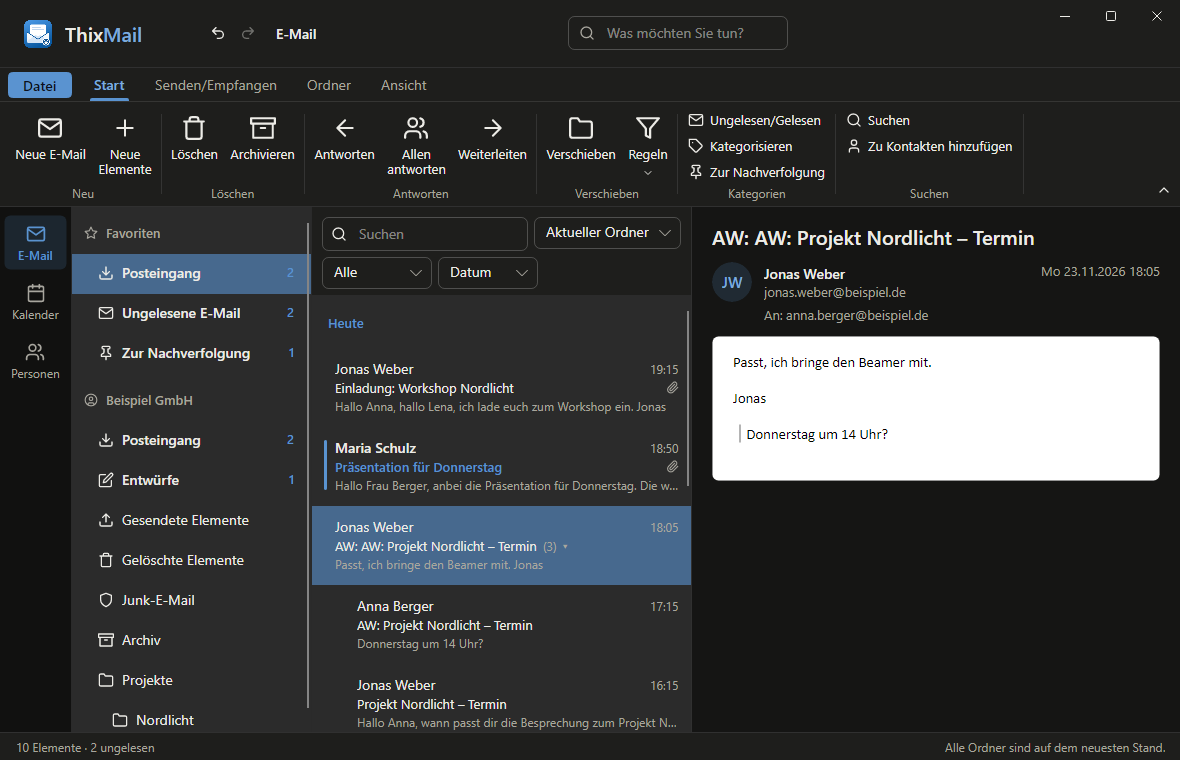
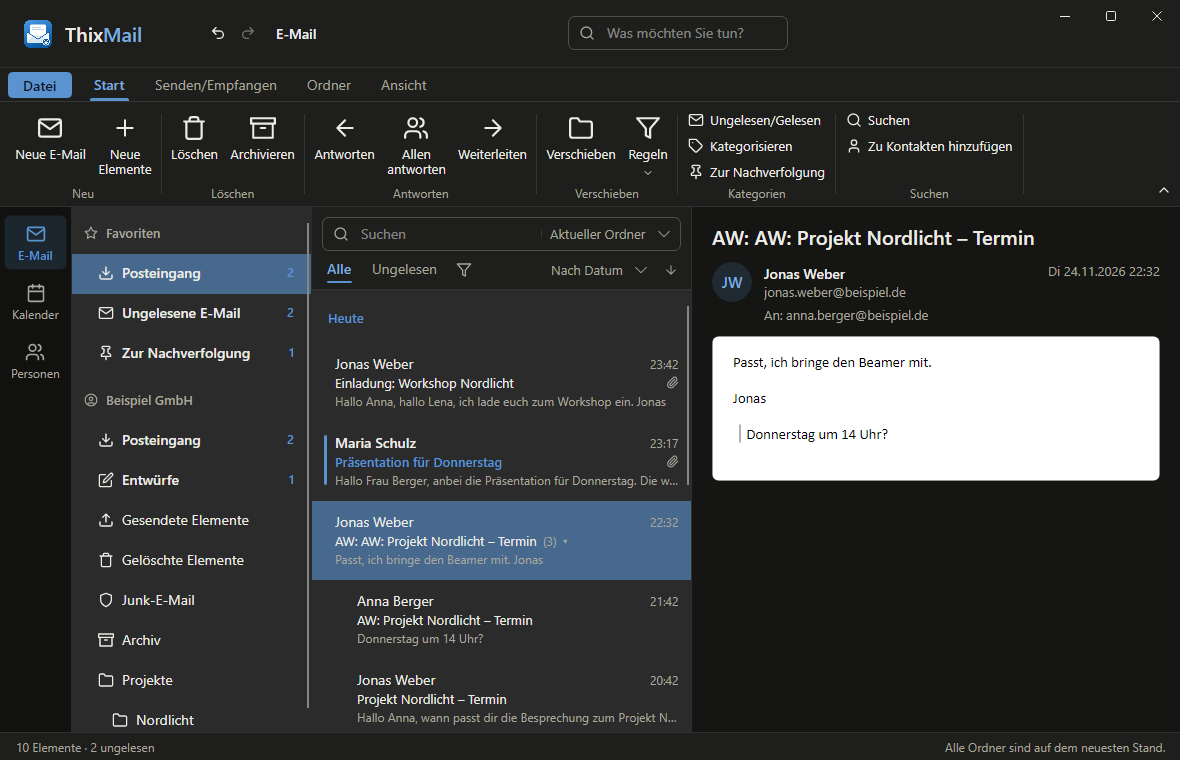
ThixMail: the list's toolbar like Outlook's - one search field with the scope in it and an X that ends the search, under it the views Alle | Ungelesen, the filter menu and "Nach Datum" with an arrow for the direction (each order starts with its own)

diff --git a/src/ThixMail/Editor/MailEditor.cs b/src/ThixMail/Editor/MailEditor.cs
@@ -46,6 +46,9 @@ public sealed partial class MailEditor : OfficeEditor
 
     private static readonly CultureInfo German = CultureInfo.GetCultureInfo("de-DE");
 
+    /// <summary>The filters in the order of <see cref="ListFilter"/>.</summary>
+    private static readonly string[] FilterNames = ["Alle", "Ungelesen", "Gekennzeichnet", "Mit Anlagen"];
+
     private readonly OfficeWindow _window;
     private readonly Grid _root = new();
     private readonly Border _rail = new();
@@ -75,6 +78,7 @@ public sealed partial class MailEditor : OfficeEditor
     private List<long>? _dragIds;
     private ReadingPanePosition _pane;
     private bool _detached;
+    private bool _sortDescending = true;
 
     public MailEditor(OfficeWindow window, MailDocument document)
     {
@@ -103,12 +107,14 @@ public sealed partial class MailEditor : OfficeEditor
         _folderPane.Use(Border.BorderBrushProperty, "Mat.Border");
         _folderPane.BorderThickness = new Thickness(0, 0, 1, 0);
 
-        // the list with its toolbar: search (scope), filter, sort
-        SearchBox = new TextBox { Watermark = "Suchen", InnerLeftContent = new MatIcon { Icon = "search", Margin = new Thickness(8, 0, 0, 0) } };
+        // the list with its toolbar like Outlook's: ONE search field (the scope "Aktueller Ordner ˅" at its right end, ✕ ends the search),
+        // under it the views "Alle | Ungelesen", the filter menu and the order "Nach Datum ˅" with its direction
+        SearchBox = new TextBox { Watermark = "Suchen" }.Themed("MatSearchBox");
         AutomationProperties.SetName(SearchBox, "E-Mail durchsuchen");
         ToolTip.SetTip(SearchBox, Ui.Tooltip("Suchen", OperatingSystem.IsMacOS() ? "Ctrl+Alt+F" : "Ctrl+E"));
         SearchBox.TextChanged += (_, _) =>
         {
+            ClearSearchButton.IsVisible = !string.IsNullOrEmpty(SearchBox.Text);
             _searchDelay.Stop();
             _searchDelay.Start();
         };
@@ -132,21 +138,60 @@ public sealed partial class MailEditor : OfficeEditor
             _searchDelay.Stop();
             QueueRefresh();
         };
-        ScopeChoice = new ComboBox { ItemsSource = new[] { "Aktueller Ordner", "Alle Ordner" }, SelectedIndex = 0, MinWidth = 130 };
-        AutomationProperties.SetName(ScopeChoice, "Suchbereich");
+        ScopeChoice = PlainChoice(["Aktueller Ordner", "Alle Ordner"], "Suchbereich");
         ScopeChoice.SelectionChanged += (_, _) => QueueRefresh();
-        FilterChoice = new ComboBox { ItemsSource = new[] { "Alle", "Ungelesen", "Gekennzeichnet", "Mit Anlagen" }, SelectedIndex = 0, MinWidth = 110 };
+        ClearSearchButton = new Button { Content = new MatIcon { Icon = "x", Size = 14 }, Padding = new Thickness(6), IsVisible = false, VerticalAlignment = VerticalAlignment.Center }.Themed("MatButton.Ghost");
+        AutomationProperties.SetName(ClearSearchButton, "Suche schließen");
+        ToolTip.SetTip(ClearSearchButton, "Suche schließen");
+        ClearSearchButton.Click += (_, _) =>
+        {
+            SearchBox.Text = "";
+            FocusDocument();
+        };
+        var scopeLine = new Border { Width = 1, Margin = new Thickness(4, 7, 2, 7) };
+        scopeLine.Use(Border.BackgroundProperty, "Mat.Border");
+        SearchBox.InnerRightContent = new StackPanel { Orientation = Orientation.Horizontal, Children = { ClearSearchButton, scopeLine, ScopeChoice } };
+
+        // the filter: "Alle" and "Ungelesen" as Outlook's views over the list, every filter in the menu of the funnel
+        FilterChoice = new ComboBox { ItemsSource = FilterNames, SelectedIndex = 0 };
         AutomationProperties.SetName(FilterChoice, "Filter");
-        FilterChoice.SelectionChanged += (_, _) => QueueRefresh();
-        SortChoice = new ComboBox { ItemsSource = new[] { "Datum", "Von", "Betreff", "Größe" }, SelectedIndex = 0, MinWidth = 100 };
-        AutomationProperties.SetName(SortChoice, "Sortieren nach");
-        SortChoice.SelectionChanged += (_, _) => QueueRefresh();
-        var toolbarTop = new DockPanel { Margin = new Thickness(10, 10, 10, 4) };
-        DockPanel.SetDock(ScopeChoice, Dock.Right);
-        ScopeChoice.Margin = new Thickness(6, 0, 0, 0);
-        toolbarTop.Children.Add(ScopeChoice);
-        toolbarTop.Children.Add(SearchBox);
-        var toolbarBottom = new StackPanel { Orientation = Orientation.Horizontal, Spacing = 6, Margin = new Thickness(10, 2, 10, 6), Children = { FilterChoice, SortChoice } };
+        FilterChoice.SelectionChanged += (_, _) =>
+        {
+            ShowFilter();
+            QueueRefresh();
+        };
+        AllViewButton = ViewButton("Alle", ListFilter.All);
+        UnreadViewButton = ViewButton("Ungelesen", ListFilter.Unread);
+        FilterButton = new Button { Content = new MatIcon { Icon = "filter", Size = 16 }, Padding = new Thickness(6), VerticalAlignment = VerticalAlignment.Center }.Themed("MatButton.Ghost");
+        AutomationProperties.SetName(FilterButton, "Filter");
+        ToolTip.SetTip(FilterButton, "Filter: Alle, Ungelesen, Gekennzeichnet, Mit Anlagen");
+        FilterButton.Click += (_, _) => FilterMenu().ShowAt(FilterButton);
+
+        SortChoice = PlainChoice(["Nach Datum", "Nach Absender", "Nach Betreff", "Nach Größe"], "Sortieren nach");
+        SortChoice.SelectionChanged += (_, _) =>
+        {
+            _sortDescending = (ListSort)Math.Max(0, SortChoice.SelectedIndex) is ListSort.Date or ListSort.Size;
+            ShowSortDirection();
+            QueueRefresh();
+        };
+        SortDirectionButton = new Button { Padding = new Thickness(6), VerticalAlignment = VerticalAlignment.Center }.Themed("MatButton.Ghost");
+        SortDirectionButton.Click += (_, _) =>
+        {
+            _sortDescending = !_sortDescending;
+            ShowSortDirection();
+            QueueRefresh();
+        };
+        ShowSortDirection();
+        ShowFilter();
+
+        var toolbarTop = new DockPanel { Margin = new Thickness(10, 10, 10, 2), Children = { SearchBox } };
+        var sortPanel = new StackPanel { Orientation = Orientation.Horizontal, Spacing = 0, Children = { SortChoice, SortDirectionButton } };
+        DockPanel.SetDock(sortPanel, Dock.Right);
+        var toolbarBottom = new DockPanel { Margin = new Thickness(6, 0, 6, 2) };
+        toolbarBottom.Children.Add(sortPanel);
+        toolbarBottom.Children.Add(new StackPanel { Orientation = Orientation.Horizontal, Spacing = 2, Children = { AllViewButton, UnreadViewButton, FilterButton } });
+        var toolbarLine = new Border { Height = 1 };
+        toolbarLine.Use(Border.BackgroundProperty, "Mat.Border");
 
         List = new ListBox { SelectionMode = SelectionMode.Multiple, ItemTemplate = new FuncDataTemplate<ListRow>((_, _) => new MessageRow(this)) };
         AutomationProperties.SetName(List, "Nachrichten");
@@ -173,8 +218,10 @@ public sealed partial class MailEditor : OfficeEditor
         var listDock = new DockPanel();
         DockPanel.SetDock(toolbarTop, Dock.Top);
         DockPanel.SetDock(toolbarBottom, Dock.Top);
+        DockPanel.SetDock(toolbarLine, Dock.Top);
         listDock.Children.Add(toolbarTop);
         listDock.Children.Add(toolbarBottom);
+        listDock.Children.Add(toolbarLine);
         listDock.Children.Add(listArea);
         _listPane.Child = listDock;
         _listPane.Use(Border.BackgroundProperty, "Mat.Surface");
@@ -238,6 +285,23 @@ public sealed partial class MailEditor : OfficeEditor
     public ComboBox FilterChoice { get; }
 
     public ComboBox SortChoice { get; }
+
+    /// <summary>✕ in the search field: ends the search (shown while there is a search).</summary>
+    public Button ClearSearchButton { get; }
+
+    /// <summary>The views over the list above it: "Alle" and "Ungelesen" (Outlook's).</summary>
+    public Button AllViewButton { get; }
+
+    public Button UnreadViewButton { get; }
+
+    /// <summary>The funnel: every filter in a menu (Alle, Ungelesen, Gekennzeichnet, Mit Anlagen).</summary>
+    public Button FilterButton { get; }
+
+    /// <summary>The arrow beside "Nach Datum": newest or oldest first.</summary>
+    public Button SortDirectionButton { get; }
+
+    /// <summary>Newest (largest, Z…A) first.</summary>
+    public bool SortDescending => _sortDescending;
 
     public MessageView Reader { get; }
 
@@ -633,7 +697,7 @@ public sealed partial class MailEditor : OfficeEditor
             var selected = List.SelectedItems?.OfType<ListRow>().Where(r => r.IsMessage).Select(r => r.Id).ToHashSet() ?? [];
             _headers.Clear();
             var sort = (ListSort)Math.Max(0, SortChoice.SelectedIndex);
-            var query = new MessageQuery(ListedFolders(), ListedFilter, (SearchBox.Text ?? "").Trim(), sort, sort is ListSort.Date or ListSort.Size);
+            var query = new MessageQuery(ListedFolders(), ListedFilter, (SearchBox.Text ?? "").Trim(), sort, _sortDescending);
             _entries = Document.Store.List(query);
             KeepReadInUnreadView(query);
             var rows = MessageList.Build(_entries, ShowsConversations, sort == ListSort.Date, _expanded, DateTimeOffset.Now);
@@ -1078,6 +1142,93 @@ public sealed partial class MailEditor : OfficeEditor
 
     private Task<bool> RunAsync(string commandId) =>
         _window.Commands.Find(commandId) is { } command ? OfficeWindow.RunCommandAsync(_window, command) : Task.FromResult(false);
+
+    /// <summary>A borderless choice like Outlook's "Nach Datum ˅" and the scope in the search field: only its words and the arrow.</summary>
+    private static ComboBox PlainChoice(string[] items, string name)
+    {
+        var choice = new ComboBox
+        {
+            ItemsSource = items,
+            SelectedIndex = 0,
+            BorderThickness = new Thickness(0),
+            MinHeight = 0,
+            Padding = new Thickness(6, 2, 2, 2),
+            VerticalAlignment = VerticalAlignment.Center,
+        };
+        choice.Use(ComboBox.FontSizeProperty, "Mat.FontSizeSm");
+        choice.Use(ComboBox.ForegroundProperty, "Mat.TextMuted");
+        AutomationProperties.SetName(choice, name);
+        ToolTip.SetTip(choice, name);
+        return choice;
+    }
+
+    /// <summary>"Alle" or "Ungelesen" above the list: the chosen one in the accent, underlined.</summary>
+    private Button ViewButton(string text, ListFilter filter)
+    {
+        var label = new TextBlock { Text = text };
+        var line = new Border { Height = 2, Margin = new Thickness(0, 3, 0, 0), CornerRadius = new CornerRadius(1) };
+        var button = new Button
+        {
+            Content = new StackPanel { Children = { label, line } },
+            Padding = new Thickness(8, 5, 8, 2),
+            Tag = filter,
+            VerticalAlignment = VerticalAlignment.Center,
+        }.Themed("MatButton.Ghost");
+        AutomationProperties.SetName(button, text);
+        button.Click += (_, _) => FilterChoice.SelectedIndex = (int)filter;
+        return button;
+    }
+
+    /// <summary>The view buttons and the funnel follow the filter (the funnel in the accent while a filter of its menu only is on).</summary>
+    private void ShowFilter()
+    {
+        var filter = (ListFilter)Math.Max(0, FilterChoice.SelectedIndex);
+        foreach (var button in new[] { AllViewButton, UnreadViewButton })
+        {
+            var on = (ListFilter)button.Tag! == filter;
+            var parts = (StackPanel)button.Content!;
+            var label = (TextBlock)parts.Children[0];
+            var line = (Border)parts.Children[1];
+            label.FontWeight = on ? FontWeight.SemiBold : FontWeight.Normal;
+            label.Use(TextBlock.ForegroundProperty, on ? "Mat.AccentText" : "Mat.TextMuted");
+            line.Use(Border.BackgroundProperty, "Mat.Accent");
+            line.Opacity = on ? 1 : 0;
+        }
+
+        var other = filter is ListFilter.Flagged or ListFilter.Attachments;
+        ((MatIcon)FilterButton.Content!).Use(MatIcon.ForegroundProperty, other ? "Mat.AccentText" : "Mat.TextMuted");
+        ToolTip.SetTip(FilterButton, other ? $"Filter: {FilterNames[(int)filter]}" : "Filter: Alle, Ungelesen, Gekennzeichnet, Mit Anlagen");
+    }
+
+    /// <summary>The menu of the funnel: every filter, the one on checked.</summary>
+    private MenuFlyout FilterMenu()
+    {
+        var menu = new MenuFlyout { Placement = PlacementMode.BottomEdgeAlignedLeft };
+        for (var index = 0; index < FilterNames.Length; index++)
+        {
+            var chosen = index;
+            var item = new MenuItem { Header = FilterNames[index], ToggleType = MenuItemToggleType.Radio, IsChecked = FilterChoice.SelectedIndex == index };
+            item.Click += (_, _) => FilterChoice.SelectedIndex = chosen;
+            menu.Items.Add(item);
+        }
+
+        return menu;
+    }
+
+    /// <summary>The arrow beside the order: ↓ newest (largest, Z…A) first, ↑ oldest first.</summary>
+    private void ShowSortDirection()
+    {
+        SortDirectionButton.Content = new MatIcon { Icon = _sortDescending ? "arrow-down" : "arrow-up", Size = 14 };
+        var sort = (ListSort)Math.Max(0, SortChoice.SelectedIndex);
+        var text = sort switch
+        {
+            ListSort.Date => _sortDescending ? "Neueste oben" : "Älteste oben",
+            ListSort.Size => _sortDescending ? "Größte oben" : "Kleinste oben",
+            _ => _sortDescending ? "Z bis A" : "A bis Z",
+        };
+        ToolTip.SetTip(SortDirectionButton, text);
+        AutomationProperties.SetName(SortDirectionButton, $"Reihenfolge: {text}");
+    }
 
     public void FocusSearch()
     {

diff --git a/tests/ThixMail.Tests/MailUiTests.cs b/tests/ThixMail.Tests/MailUiTests.cs
@@ -290,6 +290,49 @@ public sealed class MailUiTests
     }
 
     [AvaloniaFact]
+    public async Task The_list_toolbar_works_like_Outlooks_one_search_field_the_views_and_the_order_with_its_direction()
+    {
+        using var data = new TestData();
+        var window = await data.WindowAsync();
+        var editor = EditorOf(window);
+        var all = editor.Rows.Count(r => r.IsMessage);
+
+        // one search field: the scope sits in it, ✕ only while searching and it ends the search
+        Assert.Equal("Suchen", editor.SearchBox.Watermark);
+        Assert.Equal("Aktueller Ordner", editor.ScopeChoice.SelectedItem);
+        Assert.False(editor.ClearSearchButton.IsVisible);
+        editor.SearchBox.Text = "sommerfest";
+        await UntilAsync(() => editor.Rows.Count(r => r.IsMessage) == 1, "the search result");
+        Assert.True(editor.ClearSearchButton.IsVisible);
+        await ClickAsync(window, editor.ClearSearchButton);
+        await UntilAsync(() => editor.Rows.Count(r => r.IsMessage) == all, "the whole list again");
+        Assert.False(editor.ClearSearchButton.IsVisible);
+
+        // "Ungelesen" over the list, "Alle" back
+        await ClickAsync(window, editor.UnreadViewButton);
+        await UntilAsync(() => editor.Rows.Count(r => r.IsMessage) < all, "only the unread");
+        Assert.Equal(1, editor.FilterChoice.SelectedIndex);
+        await ClickAsync(window, editor.AllViewButton);
+        await UntilAsync(() => editor.Rows.Count(r => r.IsMessage) == all, "every message again");
+
+        // "Nach Datum" newest first; the arrow turns it round
+        Assert.Equal("Nach Datum", editor.SortChoice.SelectedItem);
+        Assert.True(editor.SortDescending);
+        DateTimeOffset First() => editor.HeaderOf(editor.Rows.First(r => r.Kind == RowKind.Message).Id)!.Date;
+        DateTimeOffset Last() => editor.HeaderOf(editor.Rows.Last(r => r.Kind == RowKind.Message).Id)!.Date;
+        Assert.True(First() >= Last());
+        await ClickAsync(window, editor.SortDirectionButton);
+        Assert.False(editor.SortDescending);
+        await UntilAsync(() => First() < Last(), "the oldest first");
+
+        // another order starts with its own direction: A to Z for the sender
+        editor.SortChoice.SelectedIndex = 1;
+        Assert.False(editor.SortDescending);
+        editor.SortChoice.SelectedIndex = 0;
+        Assert.True(editor.SortDescending);
+    }
+
+    [AvaloniaFact]
     public async Task A_conversation_opens_with_the_right_arrow_and_shows_its_messages()
     {
         using var data = new TestData();

diff --git a/CLAUDE.md b/CLAUDE.md
@@ -202,7 +202,10 @@ src/ThixMail.Core          (no UI) ThixMailApp.Definition (Kind Workspace, .eml,
                            contacts – ThixContacts' ContactsSession – and calendar – CalendarBook – in stores of this app, PimSync with ?app=contacts and
                            ?app=calendar while signed in, ReconnectAsync), MailInvitations (View of a text/calendar part with conflicts, Answer: calendar +
                            REPLY through the outbox, RemoveCancelled, SendMeeting/DeleteAppointment: REQUEST/CANCEL); Draft.Calendar → text/calendar part
-src/ThixMail               App (workspace), Editor/ (MailEditor: navigation rail | folder pane | list | MessageView, MailEditor.Views: MailArea Mail/Calendar/
+src/ThixMail               App (workspace), Editor/ (MailEditor: navigation rail | folder pane | list | MessageView; the list's toolbar
+                           like Outlook's: ONE search field (MatSearchBox, scope ComboBox + ✕ ClearSearchButton inside it), under it the views
+                           AllViewButton/UnreadViewButton, FilterButton (menu of every filter; FilterChoice keeps the state, not shown) and the plain
+                           SortChoice "Nach Datum" with SortDirectionButton (each order starts with its own direction); MailEditor.Views: MailArea Mail/Calendar/
                            People, ShowView, the shared CalendarView/PeopleView or the sign-in, contextual ribbon contexts "calendar"/"people", the invitation
                            bar's answers; MailRows: FolderRow, MessageRow, CategoryTokens; MessageView: header, "Bilder laden", the invitation bar,
                            attachments, body = read-only DocumentSurface; MessageWindow; MailCommands + MailCommandIds (Outlook's keys; act only in the view

diff --git a/README.md b/README.md
@@ -330,8 +330,9 @@ dem Mailserver und – zum Lesen ohne Verbindung – auf diesem Computer, **nie 
   ein, ThixMail bewahrt nur die Anmeldung auf und erneuert sie selbst; endet sie, bittet das Konto um eine neue Anmeldung, ohne Mails zu verlieren.
   Solange ThixMail bei einem Anbieter noch nicht registriert ist, sagt die Kontoseite das ehrlich (Gmail geht bis dahin mit App-Passwort).
 - **Hauptfenster** wie im deutschen Outlook: Ordnerbereich (Favoriten mit „Alle Posteingänge“, je Konto Posteingang, Entwürfe, Gesendete Elemente,
-  Gelöschte Elemente, Junk-E-Mail, Archiv und eigene Ordner mit ungelesenen Zahlen), Nachrichtenliste mit Suche (aktueller Ordner oder alle),
-  Filter (Ungelesen, Gekennzeichnet, Mit Anlagen), Sortierung, Datumsgruppen (Heute, Gestern, Letzte Woche …), Unterhaltungen (aufklappbar),
+  Gelöschte Elemente, Junk-E-Mail, Archiv und eigene Ordner mit ungelesenen Zahlen), Nachrichtenliste mit Outlooks Leiste: ein Suchfeld mit
+  dem Bereich darin („Aktueller Ordner“ oder „Alle Ordner“, ✕ beendet die Suche), darunter „Alle | Ungelesen“, der Filter (Gekennzeichnet,
+  Mit Anlagen) und „Nach Datum“ (Absender, Betreff, Größe) mit Pfeil für die Richtung; Datumsgruppen (Heute, Gestern, Letzte Woche …), Unterhaltungen (aufklappbar),
   Kategorien, Schnellaktionen beim Darüberfahren – flüssig auch mit 200.000 Nachrichten –, Lesebereich rechts, unten oder aus.
 - **Lesen ohne WebView:** HTML-Mails werden mit ThixWrites Layout gezeigt – mit ihren Stilvorlagen, Spalten nebeneinander, Breiten, Abständen und
   Farben wie gestaltet; Skripte, Formulare, Frames und Ähnliches kommen gar nicht erst an.
